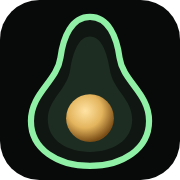
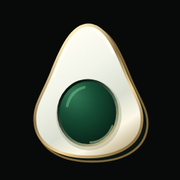
Refresh Avocado identity with monument and guardian artwork

diff --git a/index.html b/index.html
@@ -4,30 +4,30 @@
   <meta charset="utf-8">
   <script>document.documentElement.classList.add('js')</script>
   <meta name="viewport" content="width=device-width, initial-scale=1, interactive-widget=resizes-content">
-  <title>Avocado — защита и автоматизация инфраструктуры</title>
-  <meta name="description" content="Защита от DDoS и блокировок РКН, массовая закупка доменов и серверов, ИИ-адаптеры, автоматизация NIC.RU. Аренда панели на нужный срок, цена по запросу. Напишите — ответим в чате.">
+  <title>Avocado — разработка ПО, защита и автоматизация</title>
+  <meta name="description" content="Разрабатываем программное обеспечение под ваши задачи. Avocado Hass, Ettinger, автоматизация и защита от DDoS. Без KYC, с оплатой криптовалютой. Домены, серверы и прокси дополняют наше ПО.">
   <meta name="theme-color" content="#080a09">
   <meta name="color-scheme" content="dark">
-  <meta property="og:title" content="Avocado — инфраструктура без ограничений">
-  <meta property="og:description" content="Защита от DDoS и блокировок РКН, массовая закупка доменов и серверов, ИИ-адаптеры, автоматизация NIC.RU. Всё в одной экосистеме.">
+  <meta property="og:title" content="Avocado — разработка ПО, защита и автоматизация">
+  <meta property="og:description" content="Создаём Hass, Ettinger, автоматизацию и решения под вашу задачу. Конфиденциальная работа без KYC, с оплатой криптовалютой.">
   <meta property="og:type" content="website">
   <meta property="og:url" content="https://avocado.rest/">
   <meta property="og:site_name" content="Avocado">
   <meta property="og:image" content="https://avocado.rest/assets/og.png">
   <meta property="og:image:width" content="1200">
   <meta property="og:image:height" content="630">
-  <meta property="og:image:alt" content="Avocado — экосистема для защиты, автоматизации и масштабирования инфраструктуры">
+  <meta property="og:image:alt" content="Avocado — разработка программного обеспечения, защита и автоматизация">
   <meta name="twitter:card" content="summary_large_image">
-  <meta name="twitter:title" content="Avocado — инфраструктура без ограничений">
-  <meta name="twitter:description" content="Защита от DDoS и блокировок РКН, массовая закупка доменов и серверов, ИИ-адаптеры. Всё в одной экосистеме.">
+  <meta name="twitter:title" content="Avocado — разработка ПО, защита и автоматизация">
+  <meta name="twitter:description" content="Собственное ПО, Hass, Ettinger и решения под вашу задачу. Без KYC, с оплатой криптовалютой.">
   <meta name="twitter:image" content="https://avocado.rest/assets/og.png">
   <link rel="canonical" href="https://avocado.rest/">
   <link rel="icon" href="/favicon.ico" sizes="32x32">
   <link rel="icon" href="/favicon.svg" type="image/svg+xml">
   <link rel="apple-touch-icon" href="/apple-touch-icon.png">
   <link rel="manifest" href="/site.webmanifest">
-  <link rel="preload" as="image" href="assets/img/hero-scene.webp" media="(min-width: 901px)">
-  <link rel="preload" as="image" href="assets/img/hero-scene-800.webp" media="(max-width: 900px)">
+  <link rel="preload" as="image" href="assets/img/hero-monument.webp" media="(min-width: 901px)">
+  <link rel="preload" as="image" href="assets/img/hero-monument-960.webp" media="(max-width: 900px)">
   <link rel="preload" href="assets/fonts/manrope-cyrillic.woff2" as="font" type="font/woff2" crossorigin>
   <link rel="preload" href="assets/fonts/manrope-latin.woff2" as="font" type="font/woff2" crossorigin>
   <link rel="stylesheet" href="css/fonts.css">
@@ -38,7 +38,7 @@
     {"@type":"Organization","@id":"https://avocado.rest/#org","name":"Avocado","url":"https://avocado.rest/","logo":"https://avocado.rest/assets/icons/icon-512.png"},
     {"@type":"WebSite","@id":"https://avocado.rest/#site","url":"https://avocado.rest/","name":"Avocado","inLanguage":"ru","publisher":{"@id":"https://avocado.rest/#org"}},
     {"@type":"Product","name":"Avocado Hass","url":"https://avocado.rest/#products","description":"Защита трафика: анти-DDoS, защита от блокировок РКН, стабильность сервисов.","brand":{"@id":"https://avocado.rest/#org"}},
-    {"@type":"Product","name":"Avocado Ettinger","url":"https://avocado.rest/#products","description":"Массовая закупка доменов и серверов, ИИ-адаптеры, автоматизация NIC.RU, регистрация и верификация аккаунтов.","brand":{"@id":"https://avocado.rest/#org"}}
+    {"@type":"Product","name":"Avocado Ettinger","url":"https://avocado.rest/#products","description":"Программное обеспечение для автоматизации: ИИ-адаптеры, управление доменами, серверами и рабочими процессами.","brand":{"@id":"https://avocado.rest/#org"}}
   ]}
   </script>
 </head>
@@ -99,16 +99,19 @@
     <radialGradient id="g-skin64" cx="30%" cy="25%" r="90%"><stop offset="0" stop-color="#34483a"/><stop offset=".45" stop-color="#121b15"/><stop offset="1" stop-color="#050806"/></radialGradient>
     <radialGradient id="g-flesh64" cx="50%" cy="66%" r="60%"><stop offset="0" stop-color="#f0efb0"/><stop offset=".3" stop-color="#cfdc8a"/><stop offset=".62" stop-color="#8db85e"/><stop offset=".88" stop-color="#48753f"/><stop offset="1" stop-color="#2b4a2c"/></radialGradient>
     <radialGradient id="g-seed-glow64" cx="50%" cy="50%" r="50%"><stop offset="0" stop-color="#f2c56a" stop-opacity=".7"/><stop offset="1" stop-color="#f2c56a" stop-opacity="0"/></radialGradient>
-    <symbol id="i-avocado" viewBox="0 0 64 64">
-      <path d="M32 5c-6.8 0-10 7.2-11 15C19.8 29 10 33 10 43.5 10 54 19.8 60 32 60s22-6 22-16.5C54 33 44.2 29 43 20c-1-7.8-4.2-15-11-15z" fill="url(#g-skin64)" stroke="url(#g-rim)" stroke-width="1.8"/>
-      <path d="M32 11.5c-4.4 0-6.4 5.6-7.2 11.8C23.6 31.6 16.5 35 16.5 43c0 7.6 7 11.8 15.5 11.8S47.5 50.6 47.5 43c0-8-7.1-11.4-8.3-19.7C38.4 17.1 36.4 11.5 32 11.5z" fill="url(#g-flesh64)"/>
-      <path d="M32 11.5c-4.4 0-6.4 5.6-7.2 11.8C23.6 31.6 16.5 35 16.5 43c0 7.6 7 11.8 15.5 11.8S47.5 50.6 47.5 43c0-8-7.1-11.4-8.3-19.7C38.4 17.1 36.4 11.5 32 11.5z" fill="none" stroke="#1e3a24" stroke-opacity=".7" stroke-width="1.2"/>
-      <circle cx="32" cy="42" r="13" fill="url(#g-seed-glow64)"/>
-      <ellipse cx="33" cy="47" rx="8" ry="4" fill="#3d5a2a" fill-opacity=".55"/>
-      <circle cx="32" cy="42" r="8.5" fill="url(#g-seed)"/>
-      <ellipse cx="29.5" cy="38.5" rx="2.6" ry="1.6" fill="#fff6d8" fill-opacity=".8"/>
-      <ellipse cx="24" cy="18" rx="2.2" ry="6" transform="rotate(14 24 18)" fill="#ffffff" fill-opacity=".14"/>
-    </symbol>
+    <symbol id="i-avocado" viewBox="0 0 64 64"><defs>
+    <linearGradient id="av-ivory" x1="17" y1="11" x2="49" y2="58" gradientUnits="userSpaceOnUse"><stop stop-color="#fffef4"/><stop offset=".32" stop-color="#f2f4e9"/><stop offset=".62" stop-color="#d9ddcf"/><stop offset=".81" stop-color="#fcf8e7"/><stop offset="1" stop-color="#b6a47c"/></linearGradient>
+    <linearGradient id="av-edge" x1="10" y1="20" x2="48" y2="63" gradientUnits="userSpaceOnUse"><stop stop-color="#ffedb9"/><stop offset=".32" stop-color="#8d7245"/><stop offset=".61" stop-color="#f4d699"/><stop offset="1" stop-color="#72582e"/></linearGradient>
+    <radialGradient id="av-core" cx="0" cy="0" r="1" gradientTransform="translate(25 34) rotate(57) scale(29 24)" gradientUnits="userSpaceOnUse"><stop stop-color="#347858"/><stop offset=".37" stop-color="#164c34"/><stop offset=".78" stop-color="#082519"/><stop offset="1" stop-color="#04120c"/></radialGradient>
+    <linearGradient id="av-core-edge" x1="23" y1="32" x2="42" y2="55" gradientUnits="userSpaceOnUse"><stop stop-color="#06170f"/><stop offset=".5" stop-color="#526953"/><stop offset="1" stop-color="#d4c18e"/></linearGradient>
+  </defs>
+  <path d="M33 5c-7.5 0-12.1 10.5-16.4 21.4C12.4 36.5 8.3 41 9.2 48.4 10.5 58.5 20.6 63 33 63s22.5-4.5 23.8-14.6c.9-7.4-3.2-11.9-7.4-22C45.1 15.5 40.5 5 33 5Z" fill="#0c1510" stroke="#80683c" stroke-width=".9"/>
+  <path d="M31.3 3.8c-7.2 0-11.9 10.2-16.1 21C11.2 34.6 7.2 39.3 8.2 46.8 9.4 56.3 19.2 61 31.3 61s21.9-4.7 23.1-14.2c1-7.5-3-12.2-7-22C43.2 14 38.5 3.8 31.3 3.8Z" fill="url(#av-ivory)" stroke="url(#av-edge)" stroke-width="1.2"/>
+  <path d="M16.2 26.2C21.5 13 25.2 5.6 31.3 5.6c4.1 0 7.3 3.5 10.7 10.1" stroke="#fffef5" stroke-width="1.25" stroke-linecap="round" opacity=".85"/>
+  <ellipse cx="31.5" cy="42.8" rx="14.2" ry="15.4" fill="#9d9b7b" opacity=".42"/>
+  <ellipse cx="31.1" cy="41.9" rx="12.8" ry="14.1" fill="url(#av-core)" stroke="url(#av-core-edge)" stroke-width="1.1"/>
+  <path d="M22.1 38.9c1-4.4 3.9-7.3 7.4-8.1" stroke="#8ff0a6" stroke-opacity=".35" stroke-width="1.2" stroke-linecap="round"/>
+  <path d="M41.7 47.5c-1.7 4.5-5.6 7.1-9.6 7.2" stroke="#d8d7ad" stroke-opacity=".5" stroke-width=".8" stroke-linecap="round"/></symbol>
 
     <!-- линейные иконки, 24×24, stroke=currentColor -->
     <symbol id="i-shield" viewBox="0 0 24 24"><path d="M12 3l7 2.6v5.2c0 4.6-3 8.3-7 10.2-4-1.9-7-5.6-7-10.2V5.6L12 3z"/></symbol>
@@ -147,7 +150,7 @@
   <div class="container header-inner">
     <a class="brand" href="#top" aria-label="Avocado — на главную">
       <svg class="brand-mark" width="40" height="40" aria-hidden="true"><use href="#i-avocado"/></svg>
-      <span class="brand-text"><b>Avocado</b><small>avocado.rest</small></span>
+      <span class="brand-text"><b>Avocado</b><small>Разработка ПО</small></span>
     </a>
     <nav class="nav" id="nav" aria-label="Основная навигация">
       <a href="#products">Продукты</a>
@@ -178,27 +181,23 @@
   <div class="hero-visual" aria-hidden="true">
     <div class="hero-sky"></div>
     <picture class="hero-img">
-      <source type="image/webp" srcset="assets/img/hero-scene-800.webp 800w, assets/img/hero-scene.webp 1254w" sizes="(max-width: 900px) 100vw, 58vw">
-      <img src="assets/img/hero-scene.jpg" width="1254" height="1254" alt="" fetchpriority="high" decoding="async">
+      <source type="image/webp" srcset="assets/img/hero-monument-960.webp 960w, assets/img/hero-monument.webp 1672w" sizes="100vw">
+      <img src="assets/img/hero-monument.jpg" width="1672" height="941" alt="" fetchpriority="high" decoding="async">
     </picture>
-    <div class="hero-poster">
-      <p>Больше<br>возможностей<br>сегодня.<br>Свобода<br>завтра.</p>
-      <span>avocado.rest</span>
-    </div>
   </div>
 
   <div class="container hero-inner">
-    <p class="eyebrow">Инфраструктура без ограничений</p>
-    <h1>Экосистема для защиты, автоматизации и&nbsp;масштабирования <span class="accent">инфраструктуры.</span></h1>
-    <p class="lead">Avocado объединяет защиту трафика, анти-DDoS, защиту от&nbsp;блокировок РКН, офисную автоматизацию, массовую закупку доменов и&nbsp;серверов, ИИ-&#8288;адаптеры, автоматизацию NIC.RU, регистрацию и&nbsp;верификацию аккаунтов. Всё, что нужно для стабильного роста&nbsp;— в&nbsp;одной экосистеме.</p>
+    <p class="eyebrow">Разработка · защита · автоматизация</p>
+    <h1>Разрабатываем ПО. <span class="accent">Защищаем ваши возможности.</span></h1>
+    <p class="lead">Avocado — команда разработчиков. Создаём Hass, Ettinger, автоматизацию и&nbsp;решения под вашу задачу. Домены, серверы и&nbsp;прокси дополняют наше&nbsp;ПО.</p>
     <div class="hero-actions">
-      <button class="btn btn-primary btn-lg" type="button" data-chat="Здравствуйте! Нужна консультация: подскажите, какой продукт и тариф подойдут под нашу задачу.">Получить консультацию <svg class="ic" aria-hidden="true"><use href="#i-arrow"/></svg></button>
+      <button class="btn btn-primary btn-lg" type="button" data-chat="Здравствуйте! Хочу обсудить разработку ПО и продукты Avocado.">Обсудить разработку <svg class="ic" aria-hidden="true"><use href="#i-arrow"/></svg></button>
       <a class="btn btn-ghost btn-lg" href="#products">Посмотреть продукты</a>
     </div>
     <ul class="trust">
-      <li><svg class="ic" aria-hidden="true"><use href="#i-shield-check"/></svg>Надёжная инфраструктура</li>
-      <li><svg class="ic" aria-hidden="true"><use href="#i-globe"/></svg>Глобальная сеть</li>
-      <li><svg class="ic" aria-hidden="true"><use href="#i-headset"/></svg>Поддержка 24/7</li>
+      <li><svg class="ic" aria-hidden="true"><use href="#i-shield-check"/></svg>Без KYC и проверки документов</li>
+      <li><svg class="ic" aria-hidden="true"><use href="#i-globe"/></svg>Оплата криптовалютой</li>
+      <li><svg class="ic" aria-hidden="true"><use href="#i-headset"/></svg>Конфиденциальная работа</li>
     </ul>
   </div>
 </section>
@@ -209,7 +208,7 @@
     <div class="section-head">
       <div>
         <h2>Наши продукты</h2>
-        <p class="sub">Два мощных решения. Одна экосистема. Больше возможностей для&nbsp;вашего бизнеса.</p>
+        <p class="sub">Собственное ПО для&nbsp;защиты и&nbsp;автоматизации. Развиваем продукты и&nbsp;решения под&nbsp;вашу задачу.</p>
       </div>
       <a class="link-arrow" href="#pricing">Смотреть все продукты <svg class="ic" aria-hidden="true"><use href="#i-arrow"/></svg></a>
     </div>
@@ -222,7 +221,7 @@
             <svg class="product-logo" width="44" height="44" aria-hidden="true"><use href="#i-avocado"/></svg>
             <div><h3>Avocado Hass</h3><p>Ваш трафик под защитой</p></div>
           </div>
-          <p class="product-desc">DDoS • РКН • Любые угрозы&nbsp;— мы&nbsp;рядом. Максимальная доступность ваших сервисов в&nbsp;любой ситуации.</p>
+          <p class="product-desc">ПО для&nbsp;защиты трафика и&nbsp;устойчивой работы сервисов. Поможем подобрать сценарий подключения под&nbsp;вашу инфраструктуру.</p>
           <ul class="checks">
             <li><svg class="ic" aria-hidden="true"><use href="#i-check-circle"/></svg>Защита от DDoS-атак</li>
             <li><svg class="ic" aria-hidden="true"><use href="#i-check-circle"/></svg>Защита от блокировок РКН</li>
@@ -281,11 +280,11 @@
             <svg class="product-logo" width="44" height="44" aria-hidden="true"><use href="#i-avocado"/></svg>
             <div><h3>Avocado Ettinger</h3><p>Офисная оркестрация нового поколения</p></div>
           </div>
-          <p class="product-desc">Массовая закупка доменов и&nbsp;серверов. ИИ-&#8288;адаптеры. Автоматизация NIC.RU. Регистрация и&nbsp;верификация аккаунтов.</p>
+          <p class="product-desc">Автоматизируем рабочие процессы: домены, серверы, ИИ-&#8288;адаптеры и&nbsp;инструменты команды. Разрабатываем интеграции под&nbsp;ваши задачи.</p>
           <ul class="checks">
             <li><svg class="ic" aria-hidden="true"><use href="#i-check-circle"/></svg>Массовые закупки и автоматизация</li>
             <li><svg class="ic" aria-hidden="true"><use href="#i-check-circle"/></svg>ИИ-&#8288;адаптеры и интеграции</li>
-            <li><svg class="ic" aria-hidden="true"><use href="#i-check-circle"/></svg>Регистрация и верификация аккаунтов</li>
+            <li><svg class="ic" aria-hidden="true"><use href="#i-check-circle"/></svg>Управление рабочими процессами</li>
             <li><svg class="ic" aria-hidden="true"><use href="#i-check-circle"/></svg>Управление инфраструктурой</li>
           </ul>
           <button class="btn btn-ghost" type="button" data-chat="Здравствуйте! Интересует Avocado Ettinger — закупка доменов и серверов, ИИ-адаптеры, автоматизация NIC.RU. Расскажите об условиях подключения.">Подробнее об Ettinger <svg class="ic" aria-hidden="true"><use href="#i-arrow"/></svg></button>
@@ -325,17 +324,21 @@
   <div class="container">
     <div class="section-head">
       <div>
-        <h2>Почему Avocado</h2>
-        <p class="sub">Больше, чем отдельные инструменты. Целая экосистема для&nbsp;вашего роста.</p>
+        <h2>На вашей стороне</h2>
+        <p class="sub">Разрабатываем, защищаем и&nbsp;помогаем расти. С&nbsp;вниманием к&nbsp;вашим задачам и&nbsp;конфиденциальности.</p>
       </div>
     </div>
-    <div class="why-grid">
-      <div class="feature reveal"><span class="feat-ic green"><svg class="ic" aria-hidden="true"><use href="#i-eco"/></svg></span><div><h3>Одна экосистема</h3><p>Защита, автоматизация и&nbsp;масштабирование&nbsp;— всё в&nbsp;одном бренде.</p></div></div>
-      <div class="feature reveal"><span class="feat-ic violet"><svg class="ic" aria-hidden="true"><use href="#i-brain"/></svg></span><div><h3>Автоматизация через ИИ</h3><p>ИИ-&#8288;адаптеры ускоряют рутинные процессы и&nbsp;сокращают затраты.</p></div></div>
-      <div class="feature reveal"><span class="feat-ic gold"><svg class="ic" aria-hidden="true"><use href="#i-layers"/></svg></span><div><h3>Массовые операции</h3><p>Тысячи доменов, серверов и&nbsp;аккаунтов&nbsp;— в&nbsp;пару кликов.</p></div></div>
-      <div class="feature reveal"><span class="feat-ic green"><svg class="ic" aria-hidden="true"><use href="#i-shield-check"/></svg></span><div><h3>Коммерческий уровень надёжности</h3><p>Инфраструктура, которой доверяют бизнесы по&nbsp;всему миру.</p></div></div>
-      <div class="feature reveal"><span class="feat-ic blue"><svg class="ic" aria-hidden="true"><use href="#i-clock"/></svg></span><div><h3>Высокая доступность</h3><p>Глобальная сеть, мониторинг и&nbsp;поддержка 24/7.</p></div></div>
-      <div class="feature reveal"><span class="feat-ic violet"><svg class="ic" aria-hidden="true"><use href="#i-chart"/></svg></span><div><h3>Удобная аналитика</h3><p>Наглядные данные для&nbsp;быстрых и&nbsp;точных решений.</p></div></div>
+    <div class="why-body">
+      <figure class="guardian-portrait">
+        <img src="assets/img/avocado-guardian-640.webp" srcset="assets/img/avocado-guardian-320.webp 320w, assets/img/avocado-guardian-640.webp 640w" sizes="(max-width: 640px) 300px, (max-width: 900px) 360px, 420px" width="640" height="640" alt="Талисман Avocado с золотой косточкой и защитным щитом" loading="lazy" decoding="async">
+        <figcaption>Avocado. Разработка с&nbsp;характером.</figcaption>
+      </figure>
+      <div class="why-grid">
+        <div class="feature reveal"><span class="feat-ic green"><svg class="ic" aria-hidden="true"><use href="#i-shield-check"/></svg></span><div><h3>Защита от DDoS</h3><p>Hass объединяет контроль трафика, защиту и&nbsp;аналитику для&nbsp;ваших сервисов.</p></div></div>
+        <div class="feature reveal"><span class="feat-ic gold"><svg class="ic" aria-hidden="true"><use href="#i-cpu"/></svg></span><div><h3>Автоматизация под вас</h3><p>Создаём ПО и&nbsp;адаптеры, которые связывают инструменты команды и&nbsp;снимают рутину.</p></div></div>
+        <div class="feature reveal"><span class="feat-ic green"><svg class="ic" aria-hidden="true"><use href="#i-lock"/></svg></span><div><h3>Конфиденциальная работа</h3><p>Без KYC и&nbsp;проверки документов. Оплата криптовалютой, детали проекта&nbsp;— в&nbsp;личном диалоге.</p></div></div>
+        <div class="feature reveal"><span class="feat-ic gold"><svg class="ic" aria-hidden="true"><use href="#i-server"/></svg></span><div><h3>Bulletproof-хостинг</h3><p><span class="coming-soon">Скоро</span> Готовим новое направление. Условия и&nbsp;локации расскажем после запуска.</p></div></div>
+      </div>
     </div>
   </div>
 </section>
@@ -345,20 +348,20 @@
   <div class="container">
     <div class="section-head">
       <div>
-        <h2>Как это работает</h2>
-        <p class="sub">Полный цикл&nbsp;— от&nbsp;идеи до&nbsp;масштабирования. Avocado автоматизирует каждый этап.</p>
+        <h2>От идеи до работающего ПО</h2>
+        <p class="sub">Обсуждаем задачу, разрабатываем и&nbsp;помогаем с&nbsp;запуском. Условия фиксируем до&nbsp;начала работы.</p>
       </div>
       <p class="eyebrow right">Простые решения<br>для больших возможностей.</p>
     </div>
     <ol class="flow">
-      <li class="step reveal"><span class="step-ic blue"><svg class="ic" aria-hidden="true"><use href="#i-globe"/></svg></span><b>Домены</b><small>Поиск и закупка</small></li>
-      <li class="step reveal"><span class="step-ic gold"><svg class="ic" aria-hidden="true"><use href="#i-server"/></svg></span><b>Серверы</b><small>Выбор и развёртывание</small></li>
-      <li class="step reveal"><span class="step-ic violet"><svg class="ic" aria-hidden="true"><use href="#i-cpu"/></svg></span><b>ИИ-&#8288;адаптеры</b><small>Интеграции и автоматизация</small></li>
-      <li class="step reveal"><span class="step-ic green"><svg class="ic" aria-hidden="true"><use href="#i-cart"/></svg></span><b>Покупка</b><small>Автозакупки (NIC.RU и&nbsp;др.)</small></li>
-      <li class="step reveal"><span class="step-ic blue"><svg class="ic" aria-hidden="true"><use href="#i-user-plus"/></svg></span><b>Регистрация</b><small>Создание аккаунтов</small></li>
-      <li class="step reveal"><span class="step-ic green"><svg class="ic" aria-hidden="true"><use href="#i-badge-check"/></svg></span><b>Верификация</b><small>Проверка и активация</small></li>
-      <li class="step reveal"><span class="step-ic green"><svg class="ic" aria-hidden="true"><use href="#i-shield"/></svg></span><b>Защита</b><small>DDoS, РКН, стабильность</small></li>
-      <li class="step reveal"><span class="step-ic blue"><svg class="ic" aria-hidden="true"><use href="#i-trend"/></svg></span><b>Масштабирование</b><small>Рост без ограничений</small></li>
+      <li class="step reveal"><span class="step-ic blue"><svg class="ic" aria-hidden="true"><use href="#i-chat"/></svg></span><b>Задача</b><small>Начинаем с диалога</small></li>
+      <li class="step reveal"><span class="step-ic gold"><svg class="ic" aria-hidden="true"><use href="#i-layers"/></svg></span><b>Проектирование</b><small>Сценарии и архитектура</small></li>
+      <li class="step reveal"><span class="step-ic violet"><svg class="ic" aria-hidden="true"><use href="#i-cpu"/></svg></span><b>Разработка</b><small>ПО под ваши процессы</small></li>
+      <li class="step reveal"><span class="step-ic green"><svg class="ic" aria-hidden="true"><use href="#i-check-circle"/></svg></span><b>Тестирование</b><small>Проверяем сценарии</small></li>
+      <li class="step reveal"><span class="step-ic gold"><svg class="ic" aria-hidden="true"><use href="#i-cart"/></svg></span><b>Оплата</b><small>Криптовалюта, без KYC</small></li>
+      <li class="step reveal"><span class="step-ic green"><svg class="ic" aria-hidden="true"><use href="#i-badge-check"/></svg></span><b>Активация ПО</b><small>Передаём доступы</small></li>
+      <li class="step reveal"><span class="step-ic green"><svg class="ic" aria-hidden="true"><use href="#i-shield"/></svg></span><b>Запуск</b><small>Подключение и защита</small></li>
+      <li class="step reveal"><span class="step-ic blue"><svg class="ic" aria-hidden="true"><use href="#i-trend"/></svg></span><b>Развитие</b><small>Поддержка и обновления</small></li>
     </ol>
   </div>
 </section>
@@ -428,12 +431,12 @@
   <div class="cta-shade" aria-hidden="true"></div>
   <div class="container cta-inner">
     <div class="cta-text">
-      <h2>Готовы внедрить Avocado в&nbsp;свой бизнес?</h2>
-      <p>Расскажите о&nbsp;ваших задачах, и&nbsp;наша команда подберёт оптимальное решение.</p>
+      <h2>От идеи&nbsp;— к&nbsp;вашему ПО.</h2>
+      <p>Обсудим разработку, продукты Avocado и&nbsp;инфраструктуру для&nbsp;вашего проекта. Без KYC, с&nbsp;оплатой криптовалютой.</p>
     </div>
     <div class="cta-side">
       <div class="cta-actions">
-        <button class="btn btn-primary btn-lg" type="button" data-chat="Здравствуйте! Хотим внедрить Avocado — подскажите, с чего начать?">Оставить заявку <svg class="ic" aria-hidden="true"><use href="#i-arrow"/></svg></button>
+        <button class="btn btn-primary btn-lg" type="button" data-chat="Здравствуйте! Хочу обсудить разработку ПО и продукты Avocado.">Обсудить задачу <svg class="ic" aria-hidden="true"><use href="#i-arrow"/></svg></button>
         <button class="btn btn-ghost btn-lg" type="button" data-chat="">Связаться</button>
       </div>
       <ul class="trust">
@@ -453,9 +456,9 @@
   <div class="container footer-inner">
     <a class="brand" href="#top">
       <svg class="brand-mark" width="40" height="40" aria-hidden="true"><use href="#i-avocado"/></svg>
-      <span class="brand-text"><b>Avocado</b><small>avocado.rest</small></span>
+      <span class="brand-text"><b>Avocado</b><small>Разработка ПО</small></span>
     </a>
-    <p class="footer-tagline">Надёжная инфраструктура. Больше возможностей.</p>
+    <p class="footer-tagline">Собственное ПО. Защита и&nbsp;автоматизация.</p>
     <nav class="footer-nav" aria-label="Навигация в подвале">
       <a href="#products">Продукты</a>
       <a href="#why">Решения</a>

diff --git a/css/styles.css b/css/styles.css
@@ -130,7 +130,7 @@ svg { display: block; }
 .nav-open .nav-toggle .ic-close { display: block; }
 
 /* ─── Hero ─────────────────────────────────────────────────────────── */
-.hero { position: relative; overflow: hidden; min-height: calc(100vh - var(--header-h)); display: flex; align-items: center; }
+.hero { position: relative; overflow: hidden; min-height: min(780px, calc(100vh - var(--header-h))); display: flex; align-items: center; }
 .hero-inner { position: relative; z-index: 2; padding-block: clamp(40px, 6vh, 96px); width: 100%; }
 .hero-inner > * { max-width: 620px; }
 .hero h1 { margin-top: 18px; text-wrap: balance; }
@@ -141,7 +141,7 @@ svg { display: block; }
 .trust .ic { color: var(--leaf); }
 
 .hero-visual {
-  position: absolute; inset: 0 0 0 auto; width: 58%; z-index: 1;
+  position: absolute; inset: 0; width: 100%; z-index: 1;
   pointer-events: none;
 }
 .hero-sky {
@@ -155,12 +155,12 @@ svg { display: block; }
   /* растворение в фон слева и снизу */
   content: ""; position: absolute; inset: 0; z-index: 5;
   background:
-    linear-gradient(90deg, var(--bg) 0%, rgba(8, 10, 9, .85) 18%, rgba(8, 10, 9, 0) 55%),
-    linear-gradient(180deg, rgba(8, 10, 9, .35) 0%, rgba(8, 10, 9, 0) 25%, rgba(8, 10, 9, 0) 80%, var(--bg) 100%);
+    linear-gradient(90deg, rgba(8, 10, 9, .96) 0%, rgba(8, 10, 9, .76) 30%, rgba(8, 10, 9, .30) 49%, transparent 69%),
+    linear-gradient(180deg, rgba(8, 10, 9, .1) 0%, transparent 72%, var(--bg) 100%);
 }
-/* рендер сцены: авокадо на камнях у озера */
+/* Широкая сцена сохраняет масштаб монумента и свободную область для текста. */
 .hero-img, .hero-img img { position: absolute; inset: 0; width: 100%; height: 100%; }
-.hero-img img { object-fit: cover; object-position: 50% 100%; display: block; }
+.hero-img img { object-fit: cover; object-position: 70% 50%; display: block; }
 .hero-poster {
   position: absolute; z-index: 4;
   right: clamp(24px, 5vw, 72px); top: 16%;
@@ -275,7 +275,14 @@ svg { display: block; }
 .ring-g.gold { --c: var(--gold); color: var(--gold); }
 
 /* ─── Почему ───────────────────────────────────────────────────────── */
-.why-grid { display: grid; grid-template-columns: repeat(3, 1fr); gap: 20px; }
+.why-body { position: relative; display: grid; grid-template-columns: minmax(0, .8fr) minmax(0, 1.4fr); align-items: center; gap: 36px; }
+.guardian-portrait { position: relative; margin: 0; text-align: center; }
+.guardian-portrait::before { content: ""; position: absolute; inset: 12% 2% 8%; z-index: -1; background: radial-gradient(ellipse, rgba(227,180,92,.14), transparent 68%); }
+.guardian-portrait img { display: block; width: 100%; max-width: 420px; height: auto; margin-inline: auto; filter: drop-shadow(0 22px 30px rgba(0,0,0,.35)); }
+.guardian-portrait figcaption { margin-top: 16px; color: var(--muted); font-size: .8125rem; }
+.why-grid { display: grid; grid-template-columns: repeat(2, minmax(0,1fr)); gap: 18px; }
+.why .feature { flex-direction: column; gap: 17px; padding: 24px; }
+.coming-soon { color: var(--gold); font-weight: 600; }
 .feature { display: flex; gap: 18px; padding: 26px; border-radius: var(--radius); transition: border-color .2s var(--ease); }
 .feature:hover { border-color: var(--line-2); }
 .feature h3 { font-size: 1.0625rem; }
@@ -403,7 +410,7 @@ svg { display: block; }
 }
 @media (max-width: 1024px) {
   .why-grid { grid-template-columns: repeat(2, 1fr); }
-  .hero-visual { width: 66%; }
+  .hero-visual { width: 100%; }
   .hero-inner > * { max-width: 520px; }
   /* гамбургер уже здесь: на 901–1024px кнопки шапки не помещаются */
   .nav {
@@ -431,17 +438,19 @@ svg { display: block; }
   .hero-inner > * { max-width: 620px; }
   .hero-visual {
     order: 2;
-    position: relative; width: auto; height: 380px; margin: 0 var(--gutter) 48px;
-    border-radius: var(--radius-lg); overflow: hidden; border: 1px solid var(--line);
+    position: relative; width: 100%; height: 380px; margin: 0 0 24px;
+    overflow: hidden;
   }
-  .hero-visual::before { background: linear-gradient(180deg, rgba(8, 10, 9, 0) 70%, rgba(8, 10, 9, .6) 100%); }
-  .hero-img img { object-position: 50% 70%; }
+  .hero-visual::before { background: linear-gradient(180deg, var(--bg), transparent 18%, transparent 75%, var(--bg)); }
+  .hero-img img { object-position: 88% 50%; }
   .hero-poster { right: 16px; top: 16px; width: 168px; padding: 16px; }
   .hero-poster p { font-size: 10px; letter-spacing: .24em; }
 
   .section-head { flex-direction: column; align-items: flex-start; gap: 12px; }
   .eyebrow.right { text-align: left; }
   .product { grid-template-columns: 1fr; }
+  .why-body { grid-template-columns: 1fr; gap: 32px; }
+  .guardian-portrait img { max-width: 360px; }
   .plan { padding: 24px 18px; }
   .btn-block { white-space: normal; line-height: 1.25; padding-block: 12px; }
   .cta-inner { flex-direction: column; align-items: flex-start; }
@@ -454,6 +463,8 @@ svg { display: block; }
 }
 @media (max-width: 640px) {
   .why-grid { grid-template-columns: 1fr; }
+  .guardian-portrait img { max-width: 300px; }
+  .why .feature { flex-direction: row; gap: 18px; }
   .flow { grid-template-columns: repeat(2, 1fr); }
   .step::after, .step::before { display: none; }
   .pricing-grid { grid-template-columns: 1fr; }
